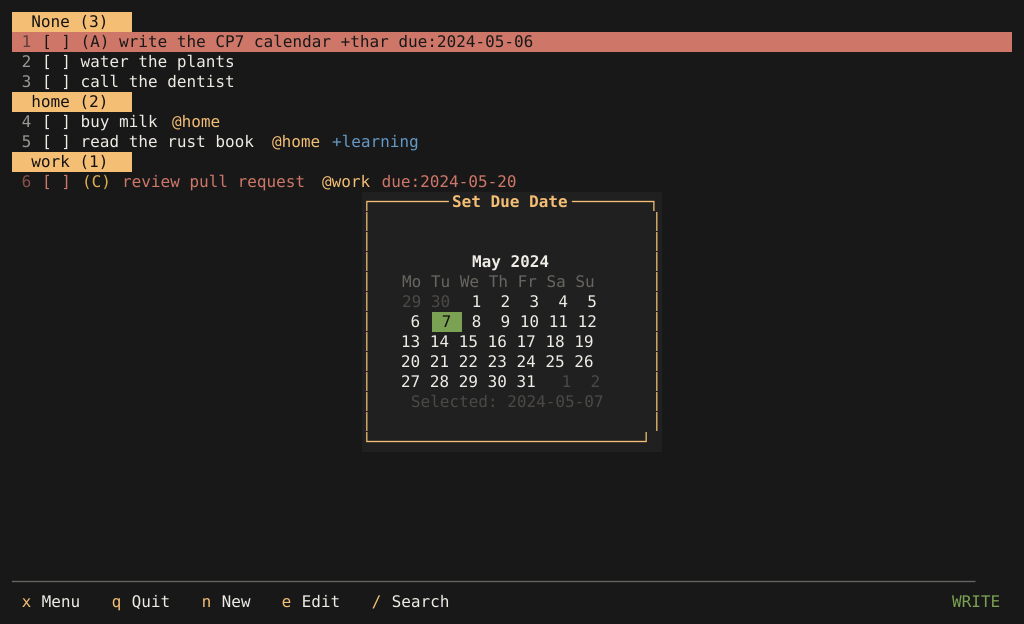
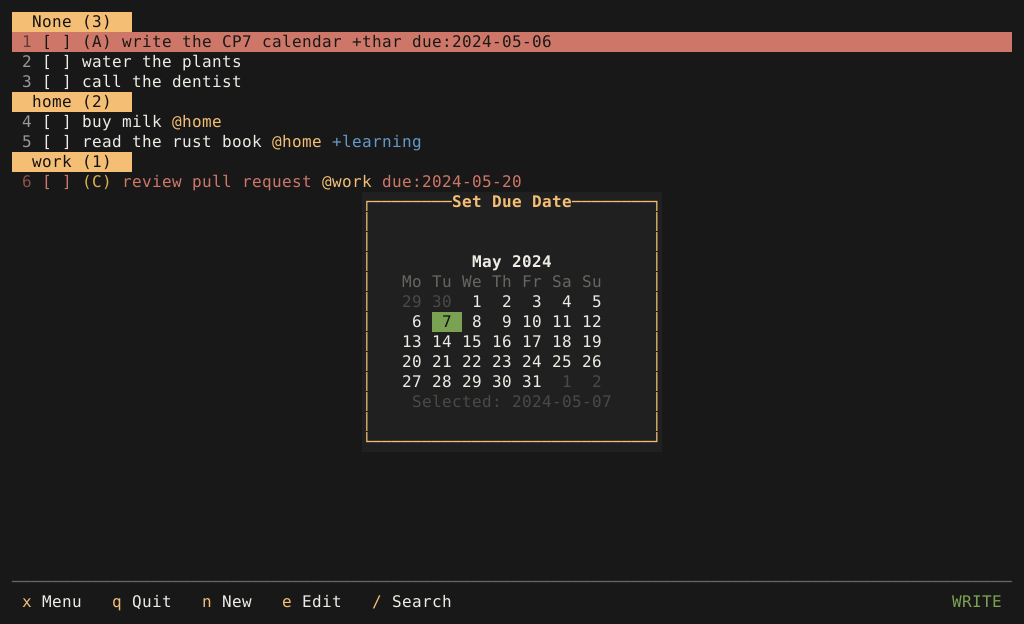
fix(docs): align box-drawing glyphs in PTY screenshots
The SVG generator emitted one <text> per style run, so a long border depended
on every glyph having exactly the cell advance. The fallback font's box
characters do not, and the bottom corner drifted left of the vertical edge.
Emit one <text> per cell instead, then regenerate every PTY asset (CP6, CP7
write/editor/calendar/menu/sync and the modal-padding frame).

diff --git a/crates/thar-cli/tests/pty/screenshot.rs b/crates/thar-cli/tests/pty/screenshot.rs
@@ -151,12 +151,23 @@ pub(crate) fn svg(screen: &vt100::Screen) -> String {
             if run.dim {
                 attributes.push_str(" fill-opacity=\"0.6\"");
             }
-            svg.push_str(&format!(
-                "    <text x=\"{}\" y=\"{}\" {attributes} xml:space=\"preserve\">{}</text>\n",
-                MARGIN + u32::from(run.start) * CELL_WIDTH,
-                MARGIN + u32::from(row) * CELL_HEIGHT + BASELINE,
-                escape(&run.text)
-            ));
+            // One text element per cell. A single run would depend on every
+            // glyph having exactly CELL_WIDTH advance; box-drawing characters
+            // in the fallback font do not, so a long border drifts and the
+            // corner lands left of the vertical edge. Positioning each glyph
+            // keeps the SVG faithful to the cell grid.
+            for (offset, character) in run.text.chars().enumerate() {
+                if character == ' ' {
+                    continue;
+                }
+                let column = u32::from(run.start) + u32::try_from(offset).unwrap_or(0);
+                svg.push_str(&format!(
+                    "    <text x=\"{}\" y=\"{}\" {attributes} xml:space=\"preserve\">{}</text>\n",
+                    MARGIN + column * CELL_WIDTH,
+                    MARGIN + u32::from(row) * CELL_HEIGHT + BASELINE,
+                    escape(&character.to_string())
+                ));
+            }
         }
     }
 
